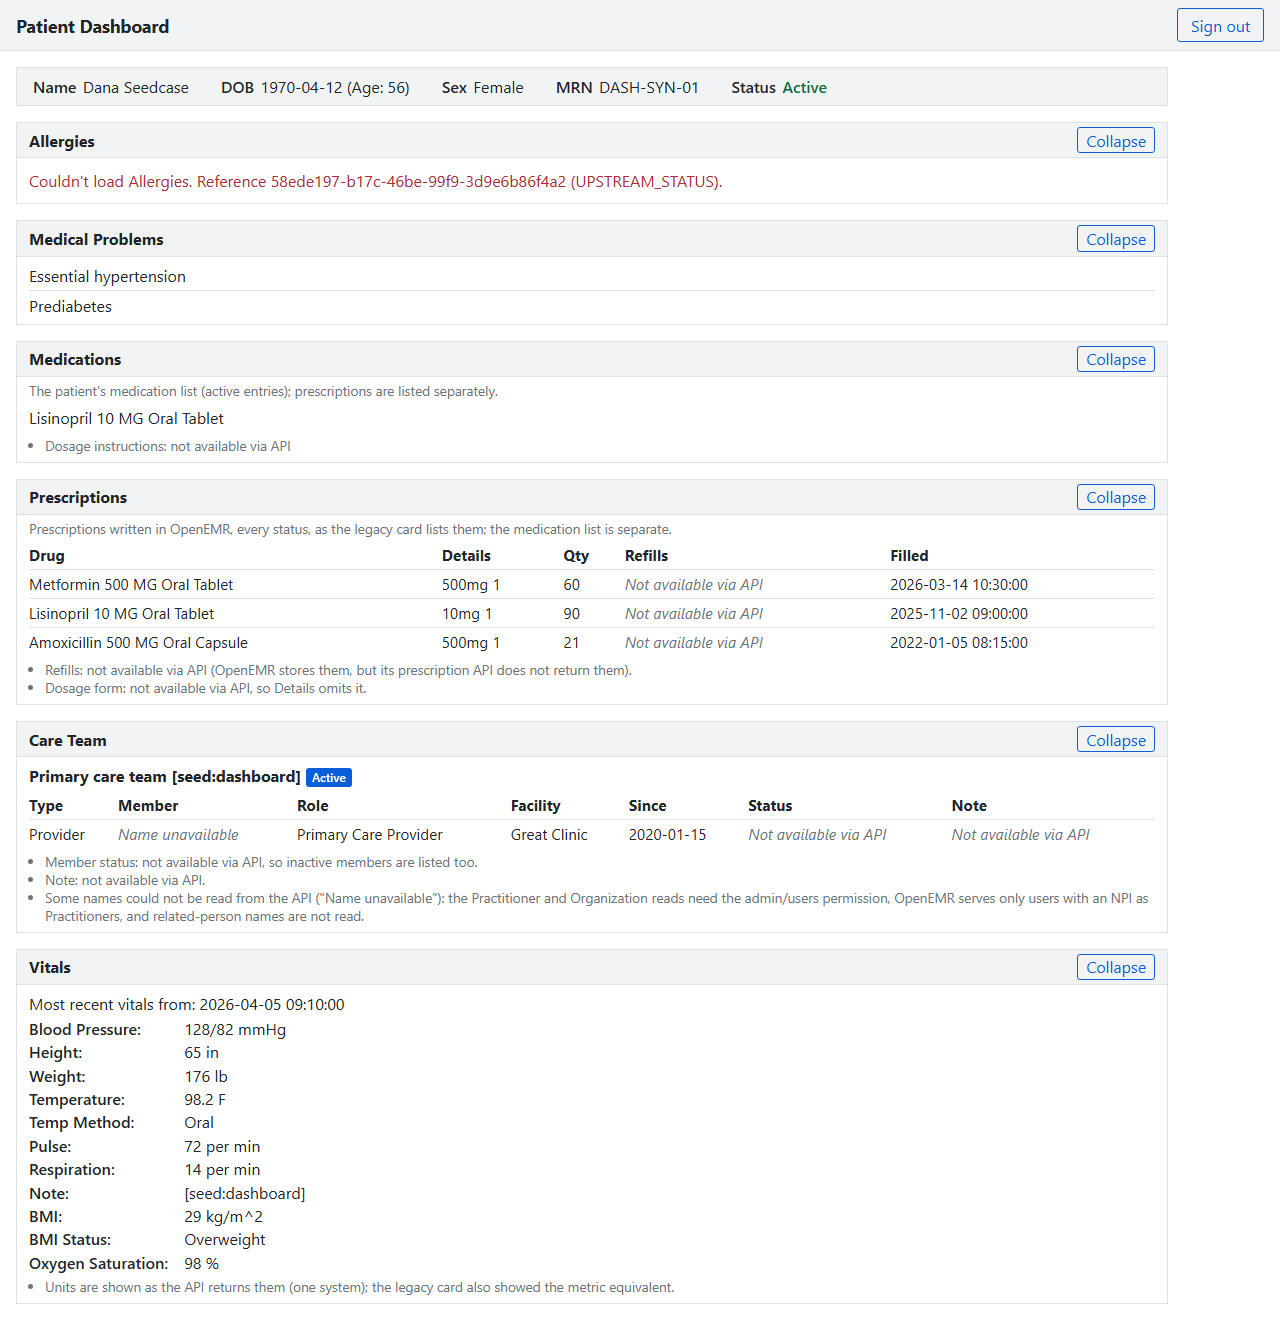
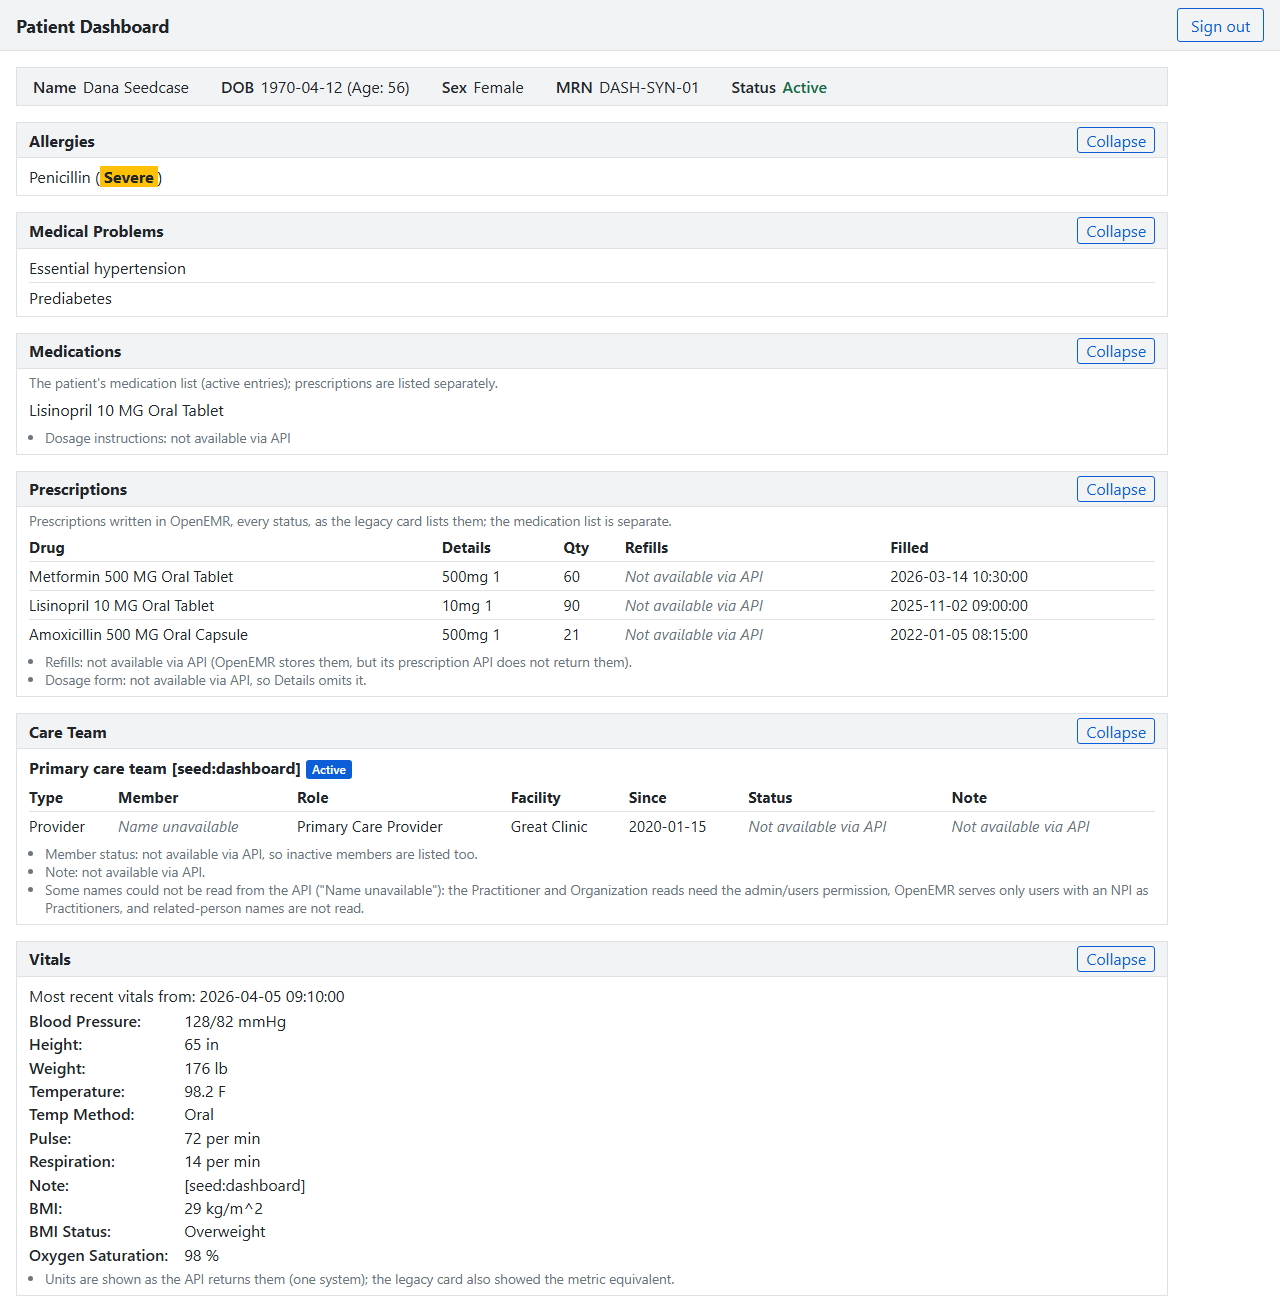
docs(agentforge): re-verify Allergies after DASH-SYN seed workaround
Owner approved setting lists.user = NULL for the DASH-SYN-01/DASH-SYN-02
allergy rows (local and production), working around the legacy
AllergyIntoleranceService::search() defect (raw binary uuid columns
breaking JSON encoding for any allergy authored by a real user) found in
the previous parity capture. Re-ran the port-side headless capture for
both patients: Allergies now loads and matches legacy exactly (DASH-SYN-01
Penicillin (Severe) highlighted, DASH-SYN-02 Sulfa drugs). Updated the
parity README and capture data accordingly, keeping the underlying code
defect documented as still live for any real-user-authored allergy.

Assisted-by: Claude Code

diff --git a/docs/legacy-audit/evidence/parity/README.md b/docs/legacy-audit/evidence/parity/README.md
@@ -1,15 +1,21 @@
 # Slice 01-06-01 — Parity evidence: legacy dashboard vs the port
 
-Captured 2026-09-26, local stack only (never production):
+Captured 2026-09-26, local stack only (never production). Re-captured
+(port screenshots + data for DASH-SYN-01/DASH-SYN-02 only) later the same day
+after the owner approved a seed-data workaround for the Allergies finding
+below (`lists.user` set to `NULL` for the DASH-SYN allergy rows, local and
+production) — see Findings.
 
 - Legacy: `http://localhost:8300/interface/patient_file/summary/demographics.php?set_pid=<pid>`
   (self-signed TLS on `https://localhost:9300` for the OAuth2/FHIR endpoints the port uses).
 - Port: `npm run dev --prefix dashboard`, `http://localhost:8790/dashboard/patients/<puuid>`.
-- Driven headlessly with Playwright (`docs/legacy-audit/probe/parity-capture.mjs`, run
-  from the probe kit's `node_modules` and removed after use — not committed; the
-  probe kit's own `probe-dashboard.mjs` documents the same legacy login flow). Login
-  credentials came from `docker/development-easy-light/docker-compose.yml`
-  (`OE_USER`/`OE_PASS`) at run time; never printed or written to a file.
+- Driven headlessly with Playwright (`docs/legacy-audit/probe/parity-capture.mjs` for
+  the full capture, `parity-recapture-allergies.mjs` for the port-only re-capture
+  below; both run from the probe kit's `node_modules` and removed after use — not
+  committed; the probe kit's own `probe-dashboard.mjs` documents the same legacy login
+  flow). Login credentials came from
+  `docker/development-easy-light/docker-compose.yml` (`OE_USER`/`OE_PASS`) at run
+  time; never printed or written to a file.
 - Patients: **DASH-SYN-01** (local pid 14, data-rich), **DASH-SYN-02** (local pid 15,
   deceased), **pid 3** (the card-level empty-state patient — it has an old vitals set,
   so only Allergies/Problems/Medications/Prescriptions/Care Team are empty for it).
@@ -22,7 +28,7 @@ Captured 2026-09-26, local stack only (never production):
 | Section | Legacy | Port | Difference |
 |---|---|---|---|
 | Header | Page title only: "Medical Record Dashboard - Dana Seedcase" (no persistent identity bar outside the tabbed shell; DOB/sex/status not shown at all in that bar per `ui/DASHBOARD-HEADER.md`) | Name, DOB 1970-04-12 (Age: 56), **Sex: Female**, MRN DASH-SYN-01, **Status: Active** | **Intended**: sex + status are fields the legacy identity bar never has (4.04); this is a documented addition, not a parity break |
-| Allergies | "Penicillin ( **Severe** )" — 1 row shown (the `outcome=1` Latex allergy is hidden) | **"Couldn't load Allergies. Reference \<id\> (UPSTREAM_STATUS)."** | **UNINTENDED — see Findings below.** The upstream REST route 500s for this patient |
+| Allergies | "Penicillin ( **Severe** )" — 1 row shown (the `outcome=1` Latex allergy is hidden) | "Penicillin ( **Severe** )" — same 1 row, same highlight | Same (see Findings: this now matches only because of a seed-data workaround, not a code fix) |
 | Medical Problems | Essential hypertension; Prediabetes (2 rows; the past-enddate problem hidden) | Same 2 rows | Same |
 | Medications | Lisinopril 10 MG Oral Tablet (1 row) | Same, plus "Dosage instructions: not available via API" | **Intended**: dosage instructions gap, documented on-card |
 | Prescriptions | 3 rows (Metformin, Lisinopril, Amoxicillin) with real Qty/Refills (1, 3, 0) and Filled dates | Same 3 rows, same drugs/qty/dates, **Refills: "Not available via API"** for all 3; no dosage-form suffix | **Intended** (documented deviation: "refills not available via API"; PrescriptionService's REST shape has no refill count, per `data/UUID-MAPPING.md` §6) |
@@ -34,7 +40,7 @@ Captured 2026-09-26, local stack only (never production):
 | Section | Legacy | Port | Difference |
 |---|---|---|---|
 | Header | Page title only; a red **"Deceased - 2026-08-30 (27 days ago)"** banner mid-page, outside the identity bar, no positive "Active" indicator ever exists | Name, DOB 1948-09-01 (**Age at death: 77**), Sex Male, MRN DASH-SYN-02, **Status: Deceased (2026-08-30)** | **Intended**: the port surfaces status/sex in the persistent header; legacy only has the disconnected banner |
-| Allergies | "Sulfa drugs (Moderate)" — 1 row, not highlighted (severity below "severe") | **"Couldn't load Allergies. Reference \<id\> (UPSTREAM_STATUS)."** | **UNINTENDED — same root cause as DASH-SYN-01** |
+| Allergies | "Sulfa drugs (Moderate)" — 1 row, not highlighted (severity below "severe") | "Sulfa drugs (Moderate)" — same 1 row, not highlighted | Same (see Findings: seed-data workaround, not a code fix) |
 | Medical Problems | Nothing Recorded | Nothing Recorded | Same |
 | Medications | Nothing Recorded | Nothing Recorded | Same |
 | Prescriptions | None | None | Same |
@@ -46,27 +52,24 @@ Captured 2026-09-26, local stack only (never production):
 | Section | Legacy | Port | Difference |
 |---|---|---|---|
 | Header | Page title "Medical Record Dashboard - Wanda Moore" | Name Wanda Moore, DOB 2007-02-18 (Age: 19), Sex Female, MRN 3, Status Active | **Intended** (sex/status addition, as above) |
-| Allergies | Nothing Recorded | Nothing Recorded | Same (no 500 here — see Findings; this patient's allergy list is empty, so the buggy join branch never fires) |
+| Allergies | Nothing Recorded | Nothing Recorded | Same (this patient's allergy list is empty, so the Findings-section defect's join branch never fires here either way) |
 | Medical Problems | Nothing Recorded | Nothing Recorded | Same |
 | Medications | Nothing Recorded | Nothing Recorded | Same |
 | Prescriptions | None | None | Same |
 | Care Team | Collapsed, 0 visible rows (no team) | Nothing Recorded | Same |
 | Vitals | Most recent vitals from 2014-02-01: BP 120/80, Height 40 in (101.6 cm), Weight 40 lb (18.14 kg), Temp 102 F (38.89 C), BMI 18, "See Growth-Chart", Waist/Head circumference shown | Same set, same values, US units only (no metric conversion — the port doesn't compute the legacy's inline C/kg/cm conversions) | **Intended**: "Units are shown as the API returns them (one system); the legacy card also showed the metric equivalent" is noted directly on the port's card |
 
-## Findings — UNINTENDED difference
+## Findings — legacy API defect (worked around in seed data, still live for real-user-authored allergies)
 
-**Allergies 500s for both DASH-SYN-01 and DASH-SYN-02 (never for pid 3), reproduced on
-3+ consecutive loads each, with the BFF turning the upstream 500 into the card's
-generic `error` state ("Couldn't load Allergies").** This is a real, currently-live
-bug — not a port bug, and not something to fix as part of this evidence slice (scope
-says report, don't fix) — but it means the Allergies card's live behavior for the two
-dedicated dashboard patients does **not** match the "1 highlighted row" / "1 row, not
-highlighted" contract-test expectations in `test/contract/allergies.test.ts` today.
+**First capture (2026-09-26, morning):** Allergies 500'd for both DASH-SYN-01 and
+DASH-SYN-02 (never for pid 3), reproduced on 3+ consecutive loads each, with the BFF
+turning the upstream 500 into the card's generic `error` state ("Couldn't load
+Allergies").
 
-- **Symptom, from the dashboard BFF's own log:** `rest.allergy.list` returns HTTP 500
-  for DASH-SYN-01 and DASH-SYN-02 on every capture run; the BFF logs it as an
-  `upstream call` failure and the SPA renders the shared error state with a
-  correlation id (never upstream text, per catalog 6.01 — that part of the port is
+- **Symptom, from the dashboard BFF's own log:** `rest.allergy.list` returned HTTP 500
+  for DASH-SYN-01 and DASH-SYN-02 on every capture run; the BFF logged it as an
+  `upstream call` failure and the SPA rendered the shared error state with a
+  correlation id (never upstream text, per catalog 6.01 — that part of the port was
   working as designed).
 - **Root cause, traced in the legacy REST code** (`src/Services/AllergyIntoleranceService.php:52-97,110-134`,
   read-only, no writes): `search()`'s SQL joins `lists` to `users` (aliased
@@ -84,22 +87,40 @@ highlighted" contract-test expectations in `test/contract/allergies.test.ts` tod
   `/var/log/apache2/error.log.1`, timestamps matching every capture run).
 - **Why it's data-dependent:** the join only produces a `practitioners`/`organizations`
   row (and thus a raw-binary field) when `lists.user` matches a real
-  `users.username`. `prod-dashboard-seed.sql` sets `user='admin'` for every DASH-SYN-01
-  and DASH-SYN-02 allergy row (a realistic, not contrived, value — `admin` is a real
-  user with a real facility) — hence a `admin`-authored allergy row consistently
-  reproduces it. pid 3 has zero allergy rows, so the buggy join branch never runs and
-  the card correctly shows empty.
-- **Scope:** this is a pre-existing legacy REST API defect
+  `users.username`. `prod-dashboard-seed.sql` originally set `user='admin'` for every
+  DASH-SYN-01 and DASH-SYN-02 allergy row (a realistic, not contrived, value — `admin`
+  is a real user with a real facility) — hence an `admin`-authored allergy row
+  consistently reproduced it. pid 3 has zero allergy rows, so the buggy join branch
+  never ran for it and the card correctly showed empty either way.
+
+**Workaround (2026-09-26, later the same day, owner-approved):** the seed data was
+updated so the DASH-SYN allergy rows have `lists.user = NULL` (local and production),
+which means the `practitioners`/`organizations` joins never match a row, no raw
+binary field enters the response, and `AllergyIntoleranceService::search()` no longer
+500s for these two patients. **Re-verified live**, same method (headless Playwright,
+local stack): DASH-SYN-01 now shows "Penicillin (Severe)" and DASH-SYN-02 shows
+"Sulfa drugs (Moderate)", both matching the legacy card exactly (screenshots and
+`capture-data.json` updated in this re-capture).
+
+- **This is a data workaround, not a code fix.** `AllergyIntoleranceService::search()`
+  itself is unchanged: the same "raw binary uuid columns break JSON encoding" defect
+  is still live for **any** allergy row authored by a real user (i.e. any patient
+  whose allergy list wasn't specifically seeded with `user = NULL`). It's confirmed
+  gone for DASH-SYN-01/DASH-SYN-02 only because the seed script now avoids the
+  triggering condition, not because the underlying REST route was patched.
+- **Scope:** this remains a pre-existing legacy REST API defect
   (`AllergyIntoleranceService::search()`), not a bug in the port's `bff`/`web`/`core`
   code — the BFF's own error handling (no upstream text leaked, a correlation id
-  shown, `error` not `empty`) is behaving exactly as designed for an upstream 500.
-  Flagging it here per AGENTS.md ("fail loudly... a document mismatch or patient
-  mismatch is never READY") rather than silently treating it as parity; not fixed as
-  part of this slice (scope says report, don't fix code).
-- **Contradicts:** `DEV-LOG.md`'s 01-02-01 entry ("Owner sign-in (Window 1): ... DASH-SYN-01
-  shows 1 highlighted "(Severe)" row") — that observation predates whatever changed
-  (or was always contingent on hitting a code path where the join didn't return a
-  matching user/facility row); it is not reproducible against the current local stack.
+  shown, `error` not `empty`) behaved exactly as designed for the upstream 500 while
+  it was reproducible. Not fixed in application code as part of this slice (scope
+  says report, don't fix code); flagged per AGENTS.md ("fail loudly... a document
+  mismatch or patient mismatch is never READY") rather than silently treated as
+  parity.
+- **Contradicts (now resolved):** `DEV-LOG.md`'s 01-02-01 entry ("Owner sign-in
+  (Window 1): ... DASH-SYN-01 shows 1 highlighted "(Severe)" row") wasn't
+  reproducible against the local stack at the time of the first capture; it is
+  reproducible again now, but only because of the seed change above, not because
+  anything in `dashboard/` changed.
 
 No other unintended differences were found across the three patients and six cards.
 
@@ -127,8 +148,12 @@ end of that range.
 
 ## Files
 
-- `legacy-dash-syn-01.png`, `port-dash-syn-01.png`
-- `legacy-dash-syn-02.png`, `port-dash-syn-02.png`
+- `legacy-dash-syn-01.png`, `port-dash-syn-01.png` (port re-captured after the
+  seed workaround, see Findings)
+- `legacy-dash-syn-02.png`, `port-dash-syn-02.png` (port re-captured after the
+  seed workaround, see Findings)
 - `legacy-pid-3.png`, `port-pid-3.png`
 - `capture-data.json` — per-card state/row-count/header-text data and the raw timing
-  arrays behind the tables above.
+  arrays behind the tables above (`port.dash-syn-01`/`port.dash-syn-02` entries and
+  `recapturedAllergiesAt` reflect the later re-capture; timing arrays are from the
+  original capture and unaffected by the allergy fix).

diff --git a/docs/legacy-audit/DEV-LOG.md b/docs/legacy-audit/DEV-LOG.md
@@ -58,6 +58,53 @@ log records how each slice got there.
 
 <!-- New entries go below this line, newest first. -->
 
+## 2026-09-26 (later) — Arc 01 / Story 01-06 / Slice 01-06-01 — Allergies finding: seed workaround, re-verified
+
+**Status:** ready-for-commit (evidence + docs only; not merged, not deployed) · **Branch:** `agentforge/w2-dashboard` · **SHA:** no merge SHA yet
+
+Correction/follow-up to the 01-06-01 entry directly below (that entry is left
+unchanged per the append-only convention).
+
+### Worked on
+- Owner approved a seed-data workaround for the Allergies finding below: the
+  DASH-SYN-01/DASH-SYN-02 allergy rows now have `lists.user = NULL` (local and
+  production), instead of `user='admin'`.
+- Re-ran the headless Playwright capture for the **port side only**,
+  DASH-SYN-01 and DASH-SYN-02 (pid 3 and the legacy screenshots untouched —
+  legacy was never affected). Replaced `port-dash-syn-01.png`,
+  `port-dash-syn-02.png` and their `capture-data.json` entries.
+- Updated `docs/legacy-audit/evidence/parity/README.md`: Allergies now shows
+  as matching legacy for both patients (DASH-SYN-01: Penicillin (Severe)
+  highlighted, Latex still hidden by the outcome filter; DASH-SYN-02: Sulfa
+  drugs, not highlighted). The Findings section keeps the defect documented
+  — reworded to "legacy API defect, worked around in seed data (allergies
+  authored by no user); still present for any allergy authored by a real
+  user" — rather than deleting it now that the symptom is gone for these two
+  patients.
+
+### Result
+- **Allergies now loads successfully for both DASH-SYN-01 and DASH-SYN-02.**
+  Confirmed live, same method as before: `data-state="ok"`, rendered text
+  matches the legacy card exactly for both patients.
+- The underlying `AllergyIntoleranceService::search()` defect (raw-binary
+  `practitioner_uuid`/`organization_uuid` breaking `json_encode()`) is
+  **unchanged** — it is only unreachable now for these two seeded patients
+  because their allergy rows no longer have an authoring user that resolves
+  through the `users`/`facility` join. It remains live for any patient whose
+  allergy list has a row authored by a real user.
+
+### Tests
+- No `dashboard/` code changed; hook run covers the evidence-folder commit as
+  before (docs/evidence only).
+
+### Open questions / follow-ups
+- Same as the original 01-06-01 entry (drills, a11y pass, `api_log_option`
+  check not done in either pass), plus: decide whether
+  `AllergyIntoleranceService::search()` gets a real code fix upstream at some
+  point, independent of the seed workaround, since the defect still affects
+  any real (non-seeded) patient with an allergy authored by a user with a
+  matching `users`/`facility` row.
+
 ## 2026-09-26 — Arc 01 / Story 01-06 / Slice 01-06-01 — Parity evidence and hardening
 
 **Status:** ready-for-commit (evidence + docs only; not merged, not deployed) · **Branch:** `agentforge/w2-dashboard` · **SHA:** no merge SHA yet

diff --git a/docs/legacy-audit/arcs/ARC-01-DASHBOARD.md b/docs/legacy-audit/arcs/ARC-01-DASHBOARD.md
@@ -630,9 +630,16 @@ Record the checkpoint outcome in DEV-LOG and `AUDIT-STATE.md`.
     superseding this slice's original pid 13/3/12 plan — DASH-SYN-01/02 give
     the same header/deceased/data-rich coverage pid 12/13 would have) —
     `docs/legacy-audit/evidence/parity/`. One genuinely unintended difference
-    was found and documented, not fixed: Allergies 500s live for both
-    DASH-SYN-01 and DASH-SYN-02 (see that README's Findings section and
-    `DEV-LOG.md` 01-06-01).
+    was found and documented: Allergies 500s live for both DASH-SYN-01 and
+    DASH-SYN-02 (legacy `AllergyIntoleranceService::search()` emits a raw
+    binary uuid column that breaks JSON encoding whenever an allergy is
+    authored by a real user). Owner approved a seed-data workaround same day
+    (`lists.user = NULL` for these rows, local and production) — Allergies
+    now loads and matches legacy for both patients, re-verified live. The
+    underlying code defect is unchanged and still live for any allergy
+    authored by a real user; not fixed as application code, per this slice's
+    scope. See that README's Findings section and `DEV-LOG.md` 01-06-01 plus
+    its same-day follow-up entry.
   - [ ] The drills map to the documented states, and no upstream text is ever
     rendered. **Not done this pass** — only live states were observed, not
     the synthetic 401/403/200-with-errors/404-empty drills; still open.
